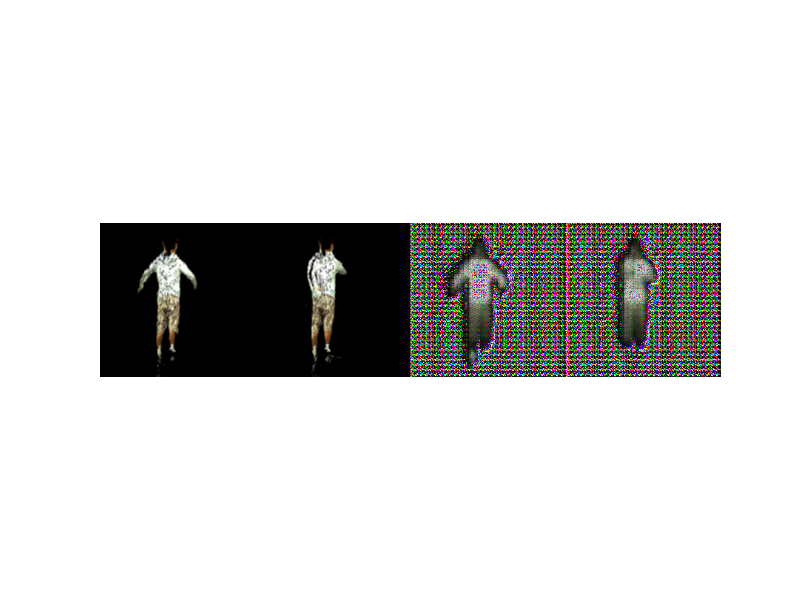
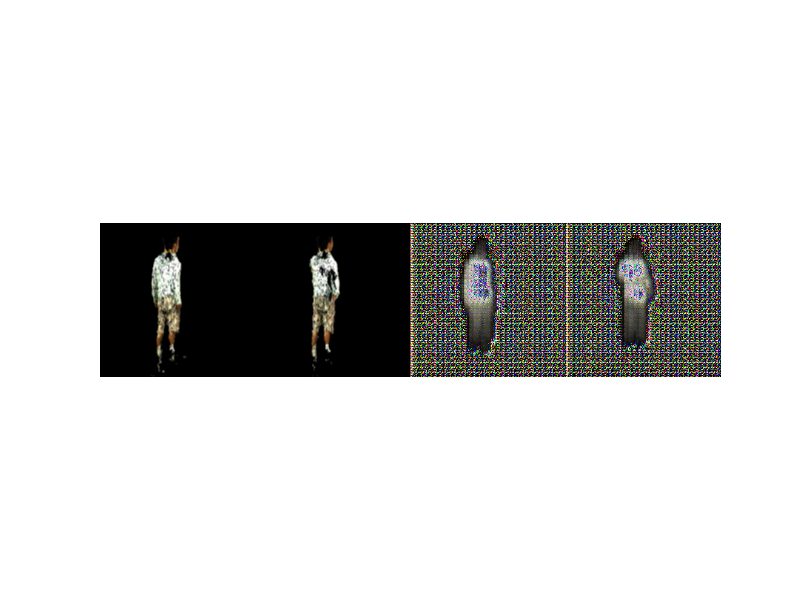
Fix storing the image and DC_autoEncoder

Changed region(s): [[0.5, 0.36, 0.9062, 0.63], [0.375, 0.39, 0.4375, 0.6], [0.1562, 0.39, 0.25, 0.6]]

diff --git a/model/models.py b/model/models.py
@@ -3,7 +3,7 @@ import numpy as np
 import sys , os 
 
 from keras.layers.core import Flatten, Dense, Dropout, Activation, Lambda, Reshape
-from keras.layers.convolutional import Conv2D, Conv2DTranspose, UpSampling2D 
+from keras.layers.convolutional import Conv2D, Deconv2D, UpSampling2D 
 from keras.layers.advanced_activations import LeakyReLU
 from keras.layers.normalization import BatchNormalization
 from keras.layers import Input, Concatenate
@@ -22,7 +22,7 @@ def generator_unet_upsampling(img_dim, bn_mode, model_name="generator_unet_upsam
     bn_axis = -1
     nb_channels = img_dim[-1]
     min_s = min(img_dim[:-1])
-    
+
     unet_input = Input(shape=img_dim, name="unet_input")
 
     # Prepare encoder filters
@@ -69,13 +69,13 @@ def generator_unet_deconv(img_dim, bn_mode, batch_size, model_name="generator_un
     bn_axis = -1
     h, w, nb_channels = img_dim
     min_s = min(img_dim[:-1])
-
     unet_input = Input(shape=img_dim, name="unet_input")
-
+    
     # Prepare encoder filters
     nb_conv = int(np.floor(np.log(min_s) / np.log(2)))
-    list_nb_filters = [nb_filters * min(8, (2 ** i)) for i in range(nb_conv)]
 
+    list_nb_filters = [nb_filters * min(8, (2 ** i)) for i in range(nb_conv)]
+    
     # Encoder
     list_encoder = [Conv2D(list_nb_filters[0], (3, 3),
                            strides=(2, 2), name="unet_conv2D_1", padding="same")(unet_input)]
@@ -86,7 +86,7 @@ def generator_unet_deconv(img_dim, bn_mode, batch_size, model_name="generator_un
         conv = conv_block_unet(list_encoder[-1], f, name, bn_mode, bn_axis , activation=activation)
         list_encoder.append(conv)
         h, w = h / 2, w / 2
-
+   
     # Prepare decoder filters
     list_nb_filters = list_nb_filters[:-1][::-1]
     if len(list_nb_filters) < nb_conv - 1:
@@ -110,11 +110,12 @@ def generator_unet_deconv(img_dim, bn_mode, batch_size, model_name="generator_un
                                 activation=activation)
         list_decoder.append(conv)
         h, w = h * 2, w * 2
-    
+
     x = Activation("relu")(list_decoder[-1])
     o_shape = [ batch_size , img_dim[0] , img_dim[1] , img_dim[2]]
-    x = Conv2DTranspose(nb_channels, (3, 3), output_shape=o_shape, strides=(2, 2), padding="same")(x)
-
+    x = Deconv2D(nb_channels, (3, 3), output_shape=o_shape, strides=(2, 2), padding="same")(x)
+    x = Activation("relu")(x)
+    
     generator_unet = Model(inputs=[unet_input], outputs=[x])
 
     return generator_unet
@@ -197,7 +198,7 @@ def DCGAN(generator, discriminator_model, img_dim, patch_size, image_dim_orderin
     gen_input = Input(shape=img_dim, name="DCGAN_input")
 
     generated_image = generator(gen_input)
-
+    generator
     if image_dim_ordering == "channels_first":
         h, w = img_dim[1:]
     else:

diff --git a/model/DC_auto_encoder.py b/model/DC_auto_encoder.py
@@ -16,26 +16,25 @@ from utils import (
     get_nb_patch,
     training_wrapper
 )
-def l1_loss(y_true , y_pred):
-    return K.sum( K.abs( y_pred  - y_true), axis=-1)
+from pix2pix_keras import l1_loss
 
 class DeepConvAutoEncoder(data_model ):
     def __init__( self , epoch=100000,img_shape = [256,256,3]):
         super().__init__(
-                "deep_conv_autoencoder_bk_lr_1e-4",
+                "deep_conv_autoencoder_bk_l_relu_lr_1e-4",
                 "generator",
                 epochs=epoch,
                 batch_size=20,
                 white_bk=False)
         self.build(self.img_shape)
-        self.n_batch_per_epoch = 100
+        self.n_batch_per_epoch = 10
         check_folders(self.weight_path)
 
     def build(self,img_shape ):
         self.model = generator_unet_deconv(img_shape , 2 ,  self.batch_size,
             model_name="generator_unet_deconv", activation=None)
-        opt_discriminator = Adam(lr=1e-4,epsilon=10e-8)
-        self.model.compile(loss="categorical_crossentropy" , optimizer=opt_discriminator)
+        opt_discriminator = Adam(lr=1E-4, beta_1=0.9, beta_2=0.999, epsilon=1e-08)
+        self.model.compile(loss=l1_loss , optimizer=opt_discriminator)
     
     def log_checkpoint(self,epoch , batch, loss):
         log_path =os.path.join(self.weight_path , "checkpoint")
@@ -96,7 +95,8 @@ class DeepConvAutoEncoder(data_model ):
                                     ("G loss ", gen_loss )])
 if __name__ == "__main__":
     model = DeepConvAutoEncoder()
-    model.train(retrain=False)
+    model.model.summary()
+    # model.train(retrain=False)
     model.test_img()
                 
 

diff --git a/model/pix2pix_keras.py b/model/pix2pix_keras.py
@@ -47,7 +47,7 @@ class  K_DCGAN(data_model):
         self.discriminator = DCGAN_discriminator(img_shape_disc ,nb_patch,2,
                 model_name="DCGAN_discriminator")
         
-        opt_dcgan, opt_discriminator = Adam(lr=1e-4,epsilon=1e-08) ,Adam(lr=1e-4,epsilon=1e-08)
+        opt_dcgan, opt_discriminator = Adam(lr=1e-4, beta_1=0.9, beta_2=0.999,epsilon=1e-08) ,Adam(lr=1e-4,beta_1=0.9, beta_2=0.999,epsilon=1e-08)
          
         self.generator.compile(loss="categorical_crossentropy" , optimizer=opt_discriminator)
         self.discriminator.trainable =False
@@ -211,6 +211,6 @@ class  K_DCGAN(data_model):
 
 if __name__ == "__main__":
     model = K_DCGAN()
-    model.train(retrain=True)
+    # model.train(retrain=True)
     model.test_img()
         

diff --git a/model/model.py b/model/model.py
@@ -154,8 +154,11 @@ class data_model(object):
         check_folders("../figures/%s" % (self.title) )
         plt.imshow(result)
         plt.axis("off")
-        plt.show()
         plt.savefig("../figures/%s/current_batch_%s.png" % (self.title,suffix))
+        plt.show()
+        plt.clf()
+        plt.close()
+       
 
 
 
